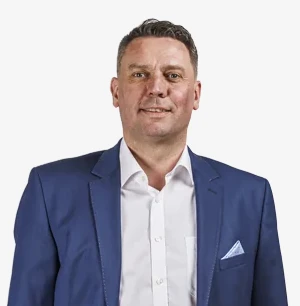
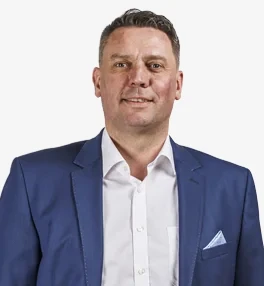
Enlarge the Heralt portrait so it matches the attached crop.

Changed region(s): [[0.0, 0.028, 1.0, 1.0], [0.5455, 0.8951, 0.5758, 1.0], [0.4848, 0.7832, 0.5152, 0.8112]]

diff --git a/pages/vzv.cz/cz/pujcovna-vzv/pujcovna-proto.css b/pages/vzv.cz/cz/pujcovna-vzv/pujcovna-proto.css
@@ -1251,8 +1251,8 @@
 
 .pujcovna-proto .rent-form-person {
   display: grid;
-  grid-template-columns: minmax(0, 1fr) 152px;
-  gap: 12px;
+  grid-template-columns: minmax(0, 1fr) 176px;
+  gap: 10px;
   align-items: end;
   margin-top: auto;
 }
@@ -1279,8 +1279,8 @@
 }
 
 .pujcovna-proto .rent-form-person-photo {
-  width: 152px;
-  height: 172px;
+  width: 176px;
+  height: 198px;
   min-height: 0;
   border-radius: 0;
   overflow: hidden;

diff --git a/web/public/pages/vzv.cz/cz/pujcovna-vzv/pujcovna-proto.css b/web/public/pages/vzv.cz/cz/pujcovna-vzv/pujcovna-proto.css
@@ -1251,8 +1251,8 @@
 
 .pujcovna-proto .rent-form-person {
   display: grid;
-  grid-template-columns: minmax(0, 1fr) 152px;
-  gap: 12px;
+  grid-template-columns: minmax(0, 1fr) 176px;
+  gap: 10px;
   align-items: end;
   margin-top: auto;
 }
@@ -1279,8 +1279,8 @@
 }
 
 .pujcovna-proto .rent-form-person-photo {
-  width: 152px;
-  height: 172px;
+  width: 176px;
+  height: 198px;
   min-height: 0;
   border-radius: 0;
   overflow: hidden;
